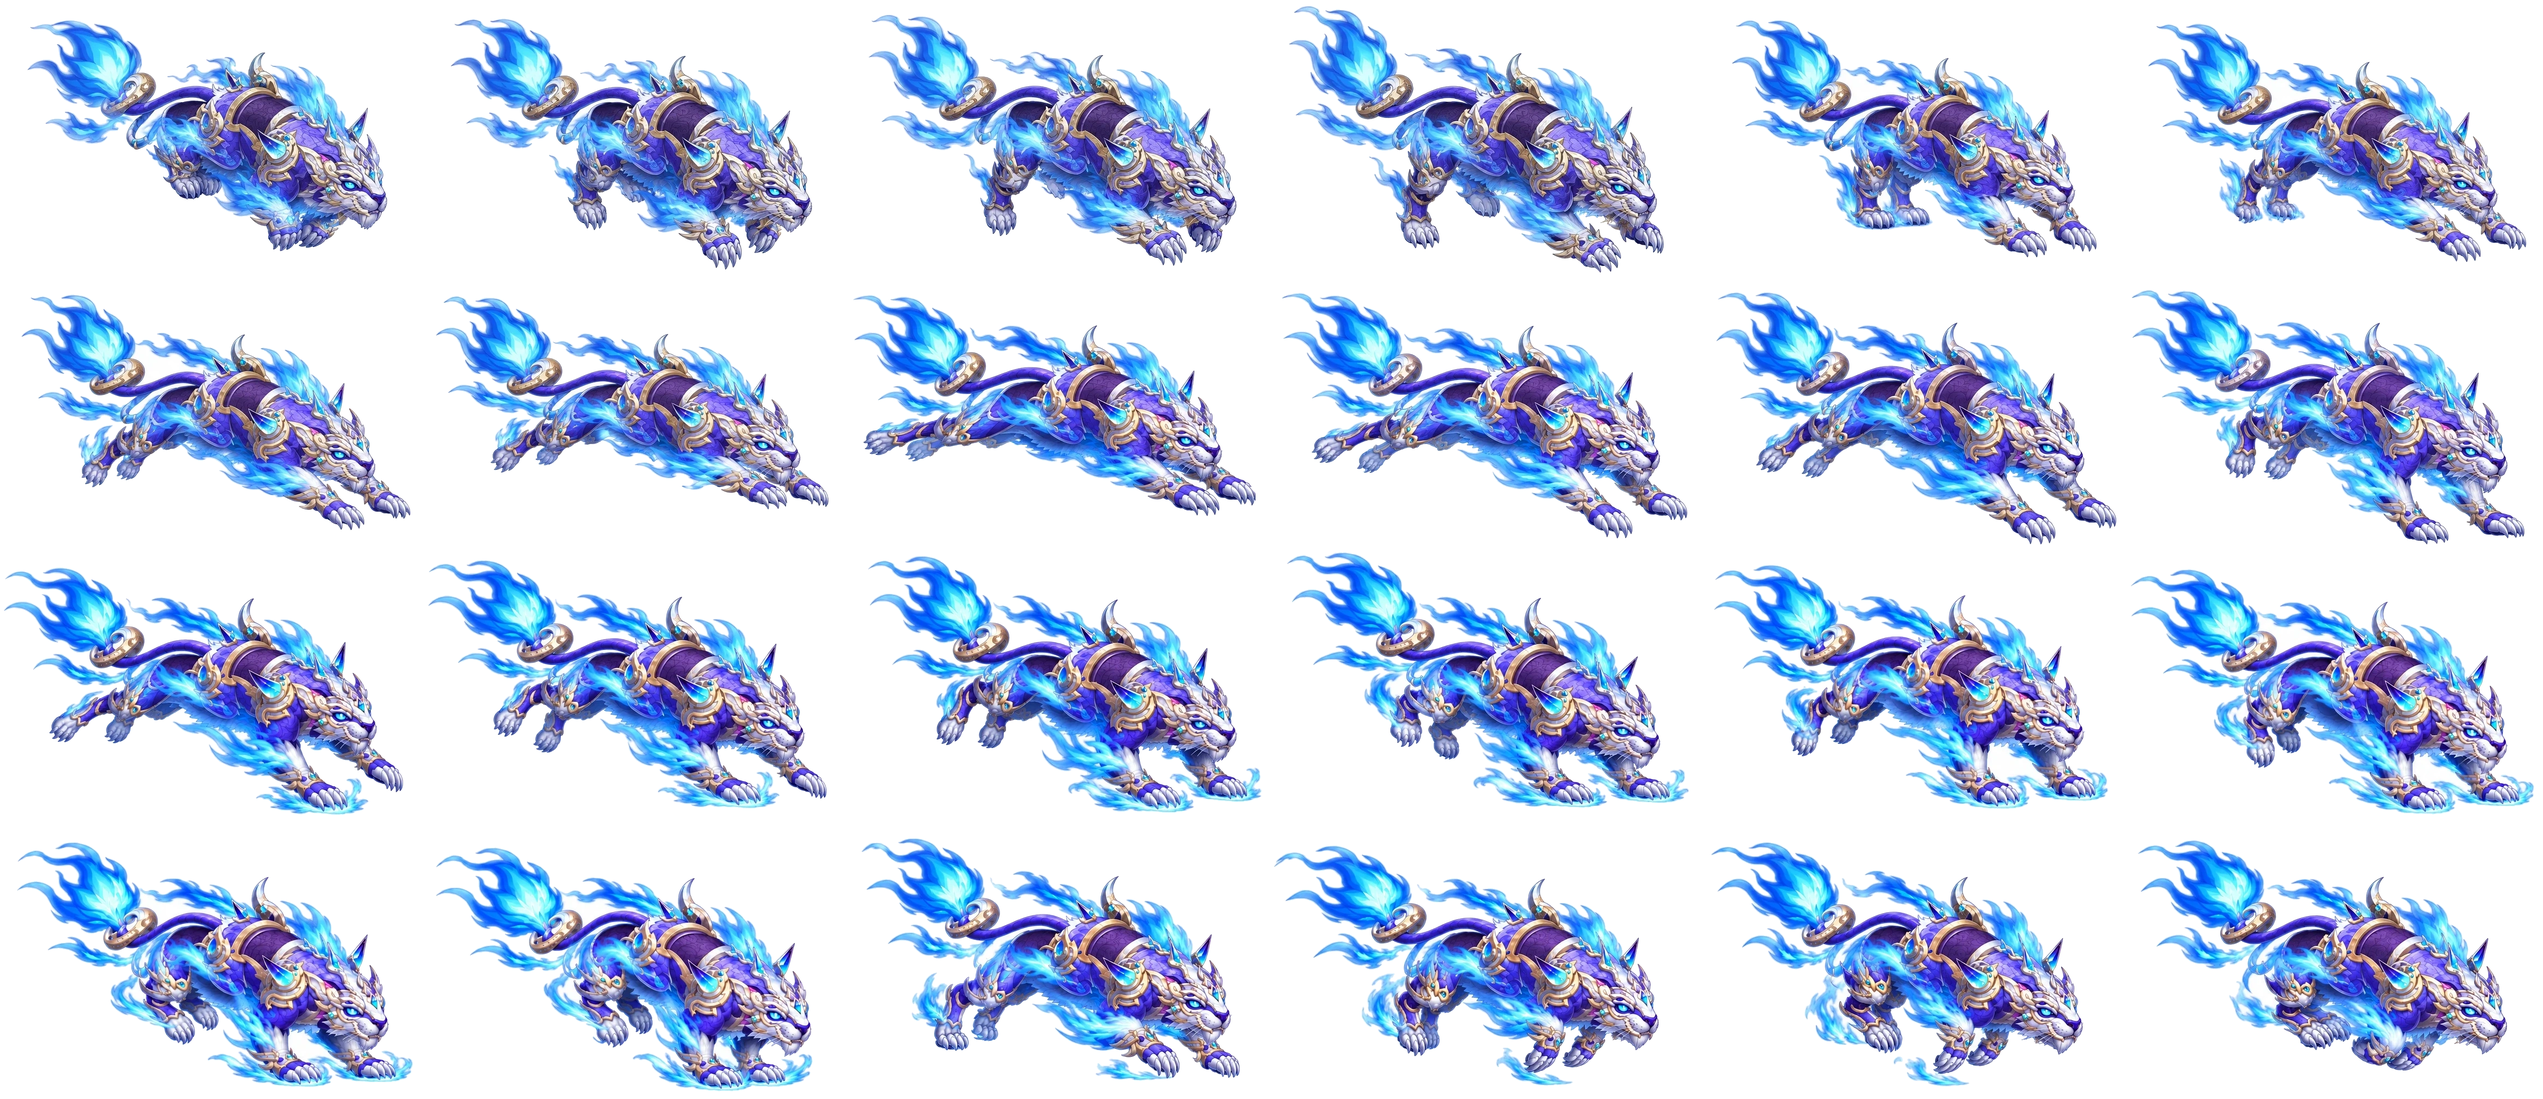
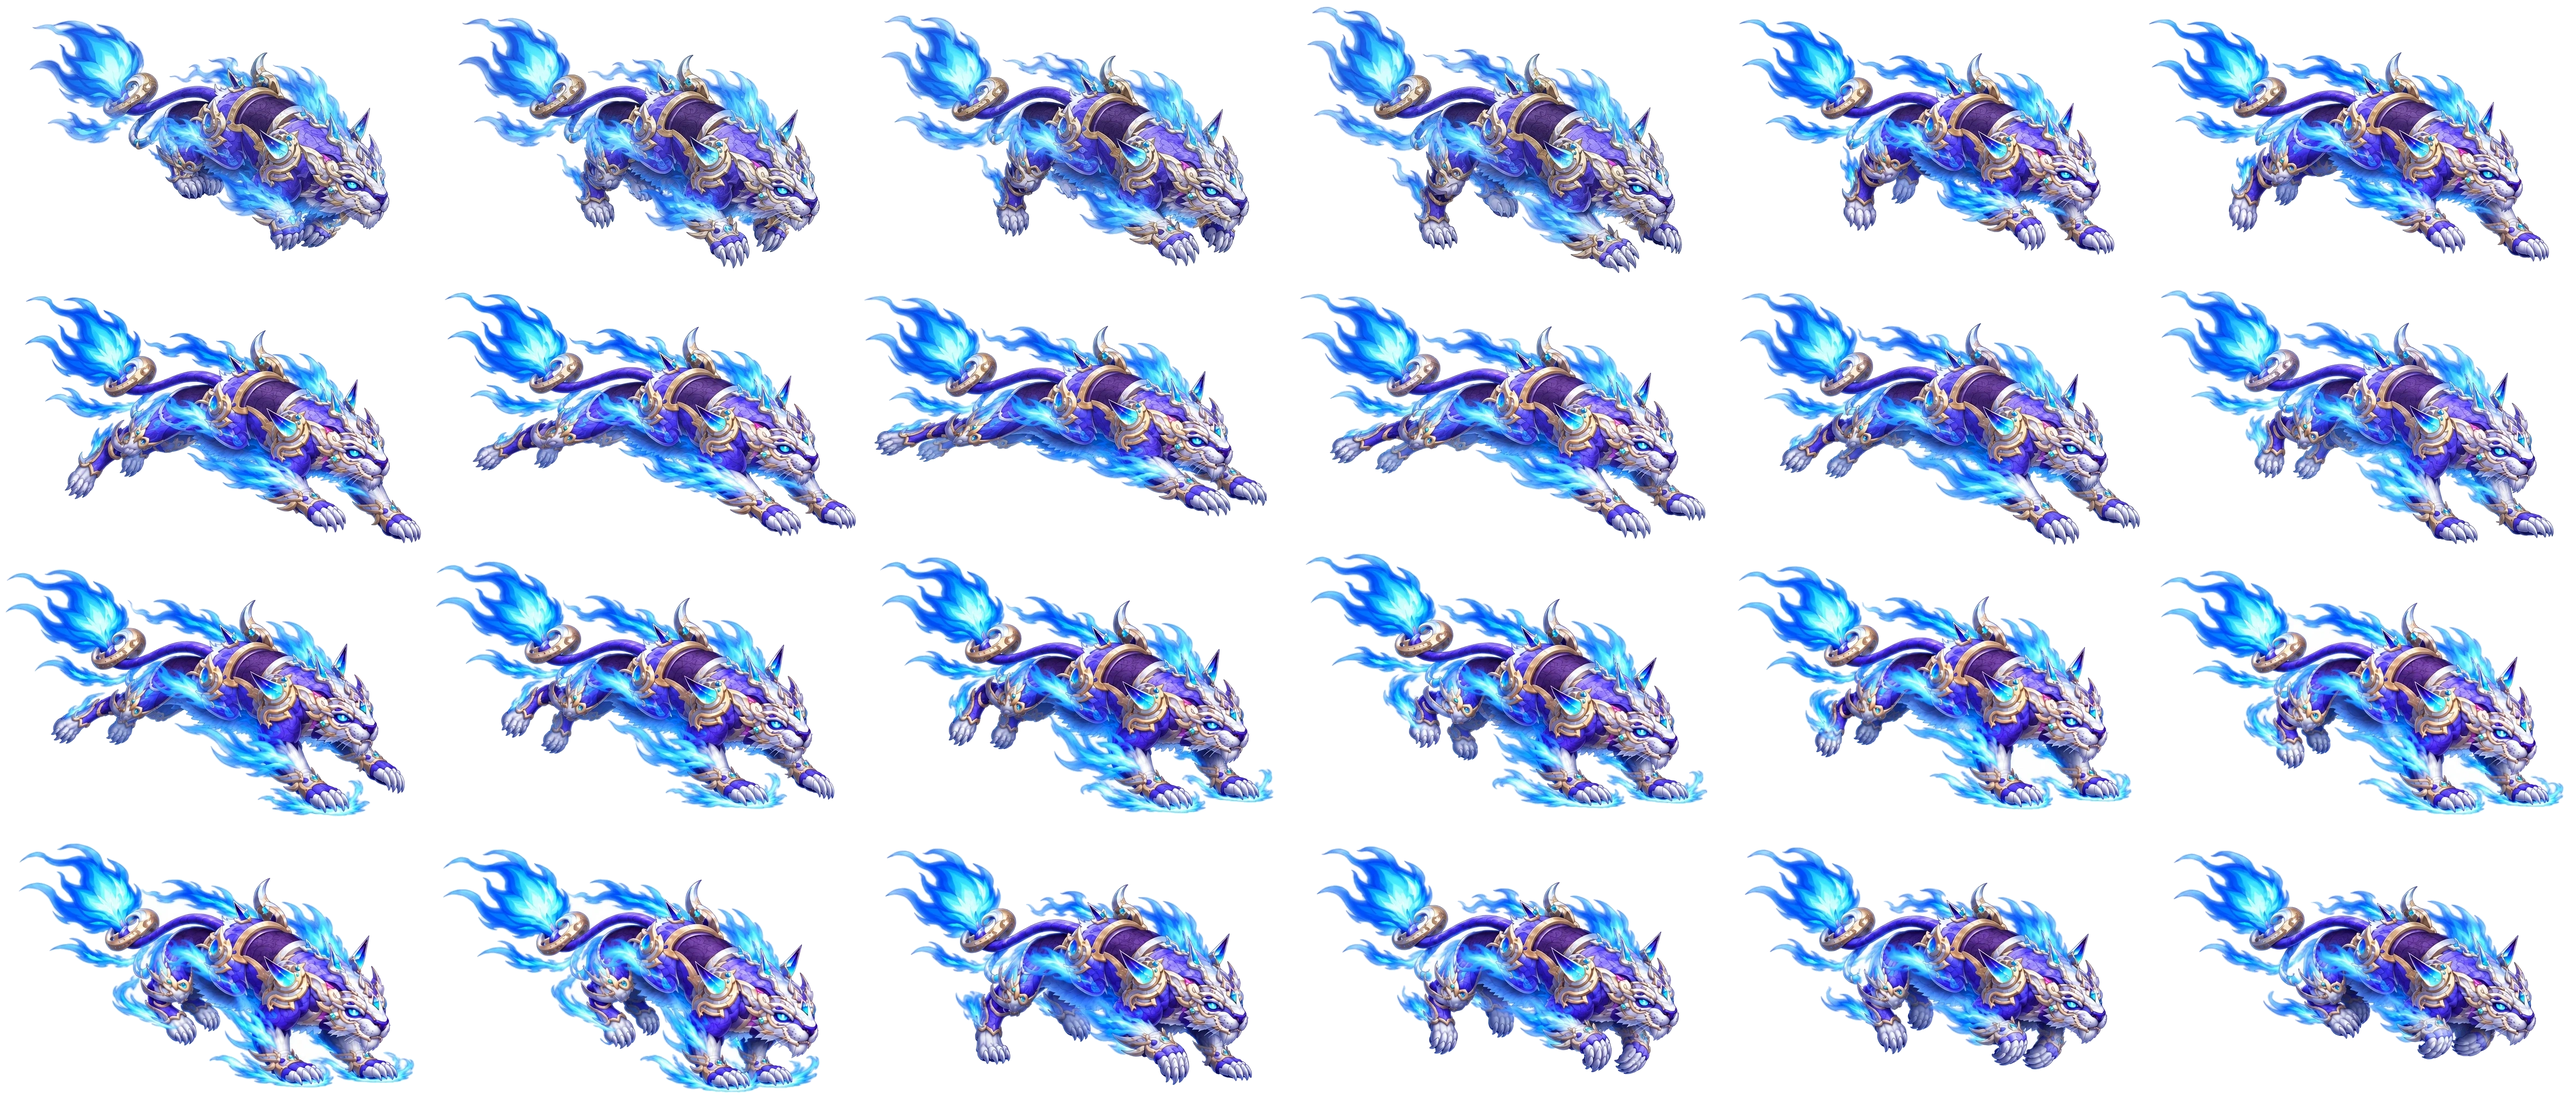
Mount page: 紫霄靈虎 with redrawn sheets 2 and 6
The redrawn sheets continue the stride from their neighbours, so the legs no longer jump at the joins or when the loop restarts.

diff --git a/src/features/mount/domain/MountCatalog.ts b/src/features/mount/domain/MountCatalog.ts
@@ -73,7 +73,7 @@ export const mountCatalog: readonly MountConfig[] = [
     description: "身披紫霄銀金戰甲的白虎，尾燃藍色靈焰，奔走時四爪踏焰、勢如雷霆。",
     unlockZh: "通關通天塔第 400 關",
     unlockStage: 400,
-    sprite: { sheet: "/assets/mounts/紫霄靈虎-sheet.webp", poster: "/assets/mounts/紫霄靈虎-poster.webp", cols: 6, cellWidth: 776, cellHeight: 503, frames: 24, frameMs: 90, blendMs: 40, endHoldMs: 90 },
+    sprite: { sheet: "/assets/mounts/紫霄靈虎-sheet.webp", poster: "/assets/mounts/紫霄靈虎-poster.webp", cols: 6, cellWidth: 786, cellHeight: 504, frames: 24, frameMs: 90, blendMs: 40, endHoldMs: 90 },
     travels: true,
     stat: "demonCoreYield",
     baseBonus: 0.05,
